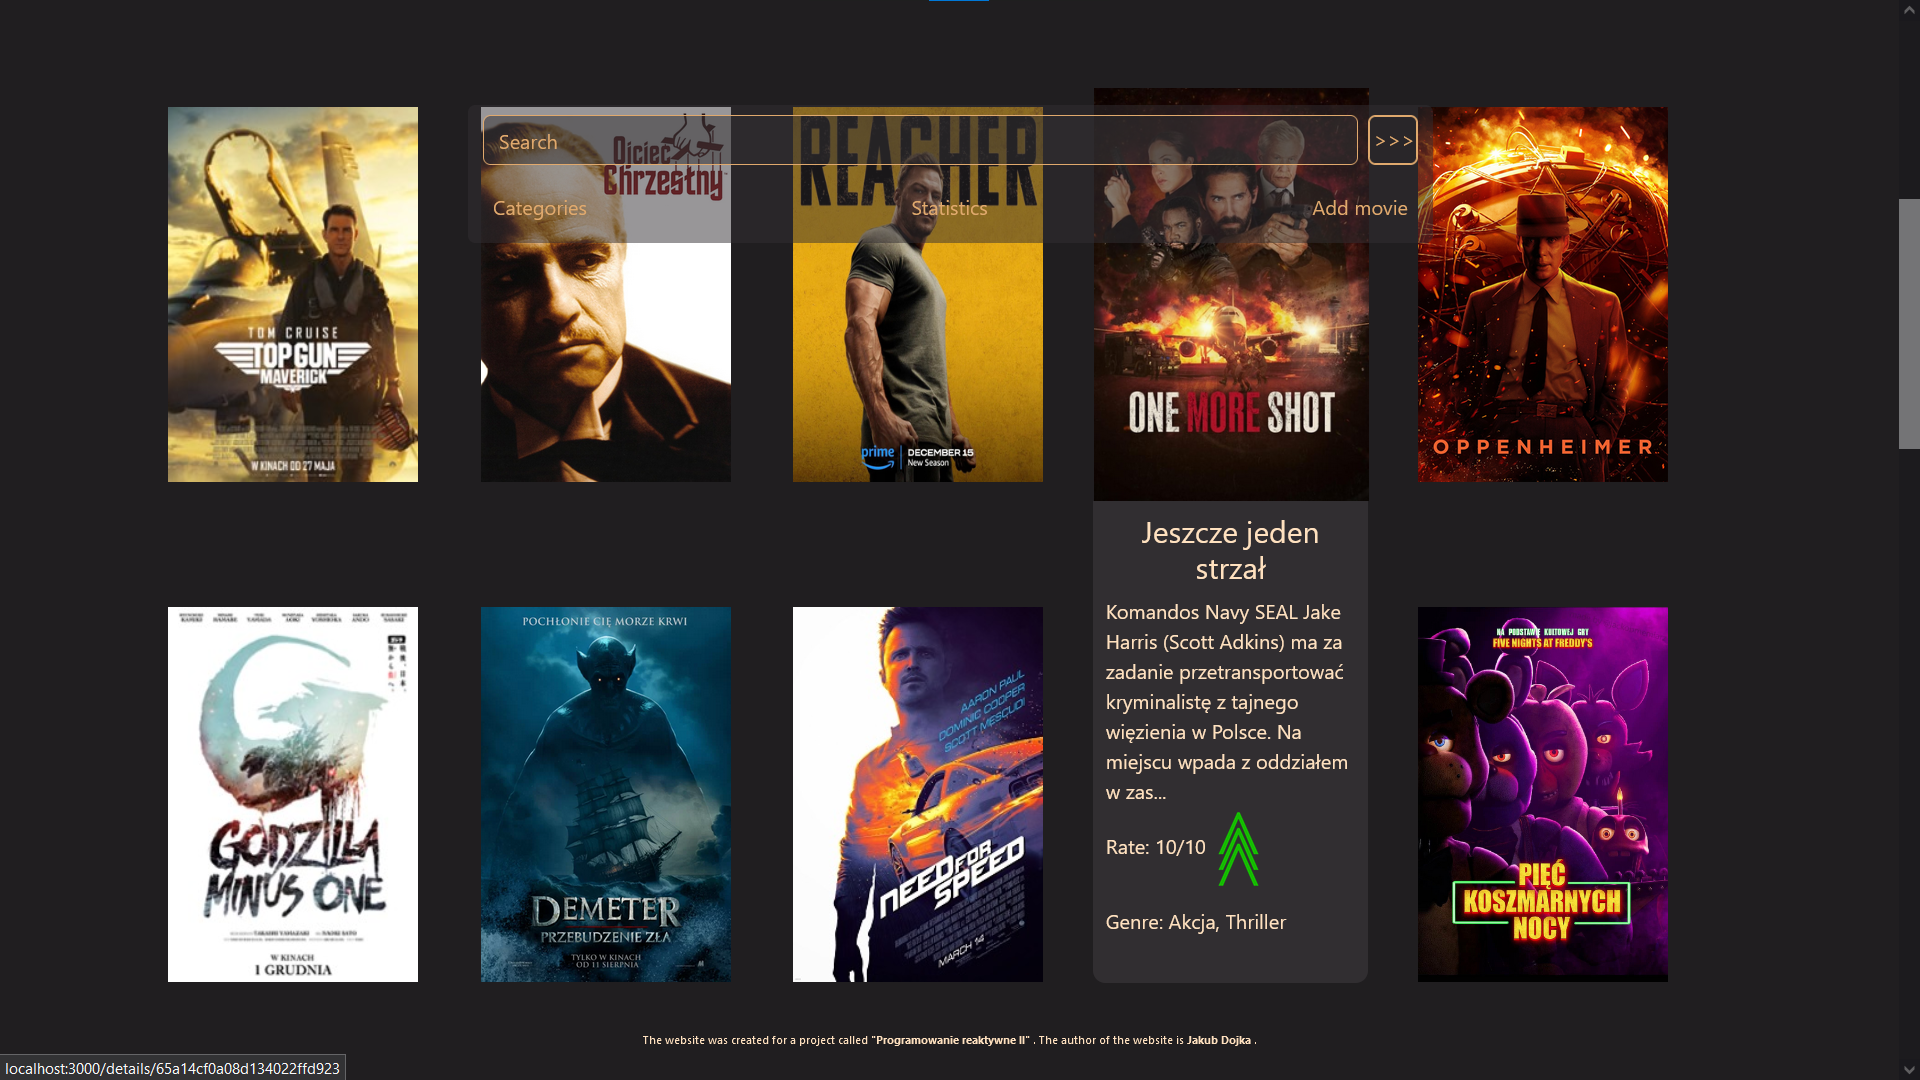
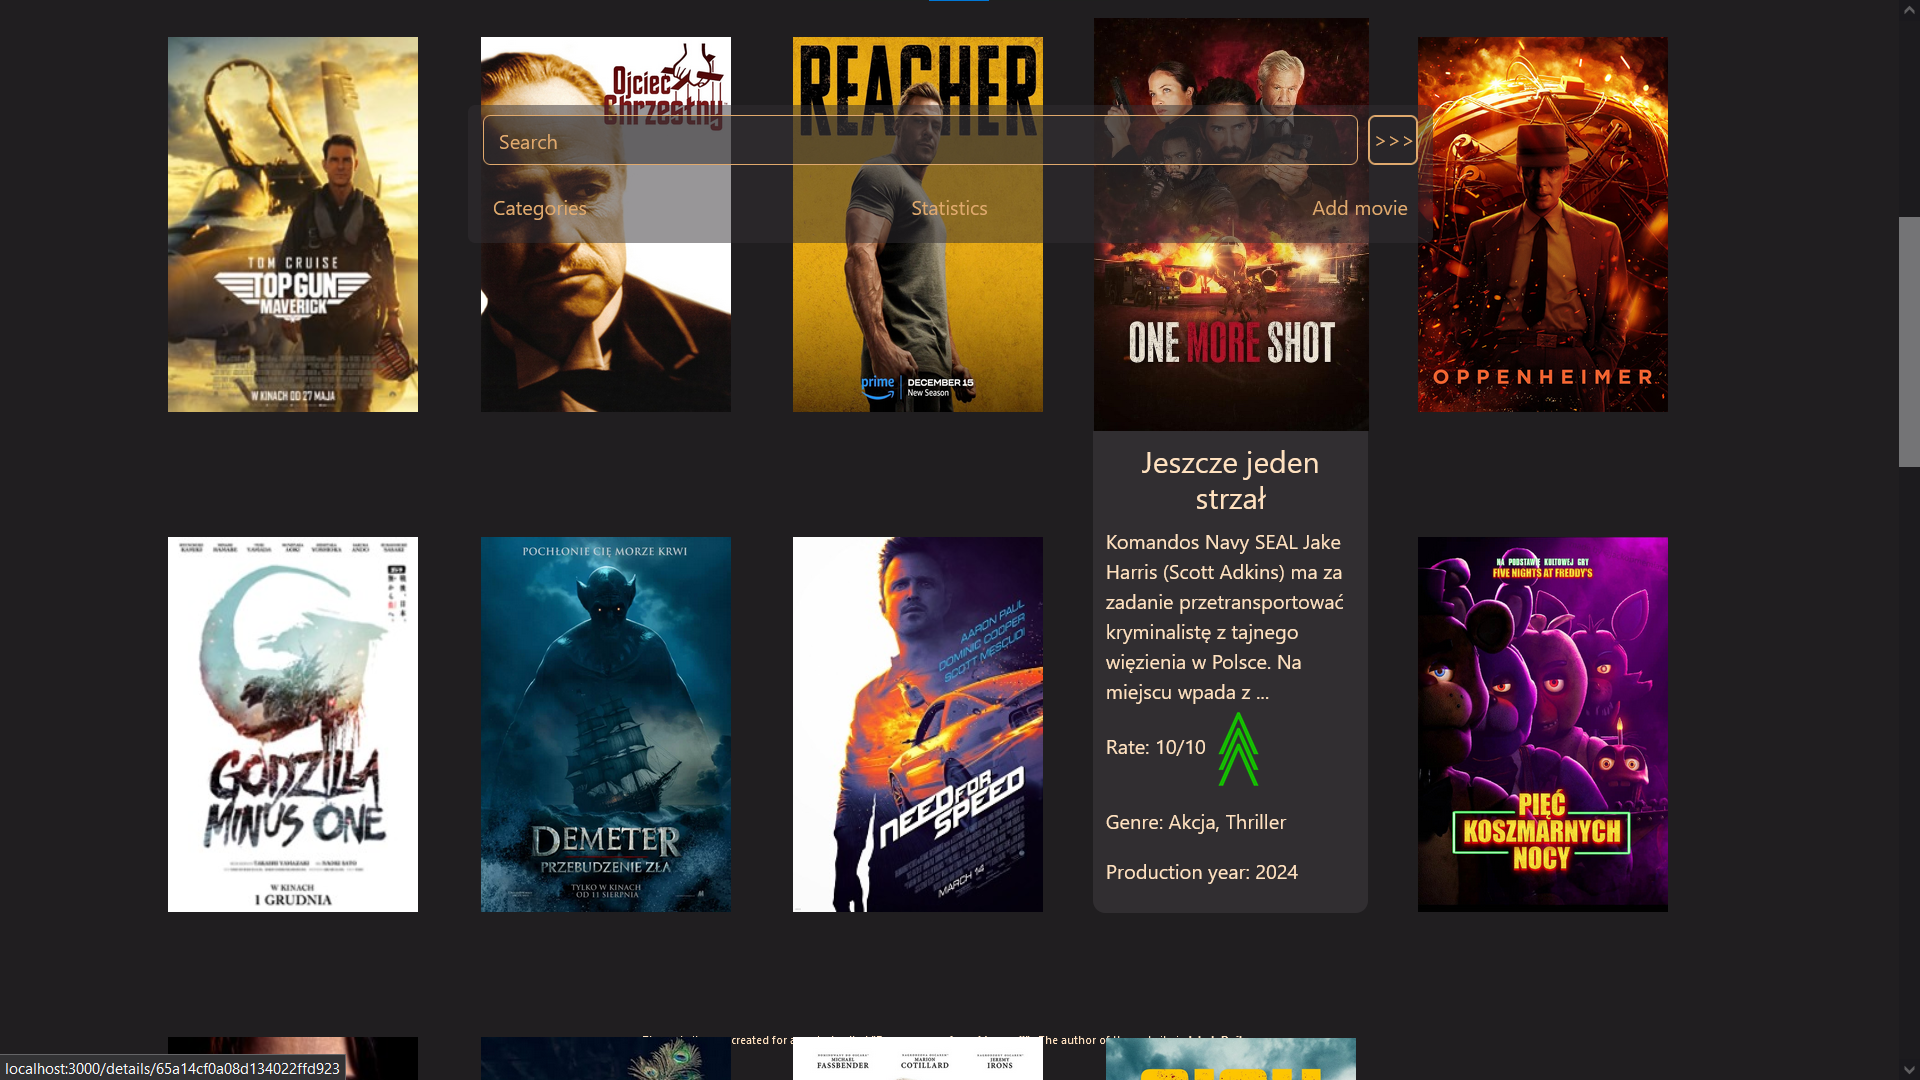
change photos, add footnote

diff --git a/src/components/pages/statistics/Statistics.jsx b/src/components/pages/statistics/Statistics.jsx
@@ -10,6 +10,7 @@ import axios from 'axios';
 import toast from 'react-hot-toast';
 import ChartComponent from "./ChartComponent";
 import {Link} from "react-router-dom";
+import Footnote from "../../elements/footnote/Footnote";
 
 const Statistics = () => {
     const props = useSpring({opacity: 1, from: {opacity: 0}});
@@ -54,16 +55,16 @@ const Statistics = () => {
                     <div className={styles.titleContainer}>
                         <HorizontalGap gap={'Top most rated videos (sorted)'}/>
                         <div className={styles.fullSize}>
-                        <div type="1" className={styles.orderedList}>
-                            {movies.map((movie, index) => (
-                                <Link className={styles.listElements} key={movie.id} to={`/details/${movie.id}`}>
+                            <div type="1" className={styles.orderedList}>
+                                {movies.map((movie, index) => (
+                                    <Link className={styles.listElements} key={movie.id} to={`/details/${movie.id}`}>
                                     <span
                                         className={`${styles.listElementOne} ${styles.background}`}>{index + 1}. {movie.title}</span>
-                                    <span
-                                        className={`${styles.listElementTwo} ${styles.background}`}>{movie.rate}/10</span>
-                                </Link>
-                            ))}
-                        </div>
+                                        <span
+                                            className={`${styles.listElementTwo} ${styles.background}`}>{movie.rate}/10</span>
+                                    </Link>
+                                ))}
+                            </div>
                         </div>
                     </div>
                     <div className={styles.titleContainer}>
@@ -72,6 +73,9 @@ const Statistics = () => {
                             <ChartComponent last7DaysData={last7DaysData}/>
                         </div>
                     </div>
+                </div>
+                <div className={styles.detailsFootnote}>
+                    <Footnote/>
                 </div>
             </div>
         </animated.div>

diff --git a/src/components/pages/details/Details.jsx b/src/components/pages/details/Details.jsx
@@ -11,6 +11,7 @@ import LoggedUser from "../../elements/loggedUser/LoggedUser";
 import SignInButton from "../../elements/signinButton/SignInButton";
 import { useAuth } from "../../utils/AuthContext";
 import { useNavigate } from "react-router-dom";
+import Footnote from "../../elements/footnote/Footnote";
 
 const Details = () => {
     const props = useSpring({opacity: 1, from: {opacity: 0}});
@@ -101,11 +102,13 @@ const Details = () => {
                         <div className={`d-flex align-items-center flex-row mb-3`}>
                             <div>
                                 <p className={styles.marginThem}>Rate: {clampedRate || 0}/10</p>
-                                <p className={styles.marginThem}>Production year: {movie.productionYear !== 0 ? movie.productionYear : 'Unknown'}</p>
+                                <p className={styles.marginThem}>Production
+                                    year: {movie.productionYear !== 0 ? movie.productionYear : 'Unknown'}</p>
                                 <p className={styles.marginThem}>Genre: {movie.genre}</p>
                             </div>
                             <div className={styles.marginThat}>
-                                {ratingImage && <img className={styles.ratingImage} src={ratingImage} alt={`rating ${movie.rate}`}/>}
+                                {ratingImage && <img className={styles.ratingImage} src={ratingImage}
+                                                     alt={`rating ${movie.rate}`}/>}
                             </div>
                         </div>
 
@@ -128,6 +131,9 @@ const Details = () => {
                             </button>
                         )}
                     </div>
+                </div>
+                <div className={styles.detailsFootnote}>
+                    <Footnote/>
                 </div>
             </div>
         </animated.div>

diff --git a/src/components/pages/details/Details.module.css b/src/components/pages/details/Details.module.css
@@ -84,3 +84,7 @@
 .marginThem {
     margin-bottom: -0px;
 }
+
+.detailsFootnote {
+    margin-top: 50px;
+}

diff --git a/src/components/pages/statistics/Statistics.module.css b/src/components/pages/statistics/Statistics.module.css
@@ -82,3 +82,7 @@
 
     /*background-color: green;*/
 }
+
+.detailsFootnote {
+    margin-top: 50px;
+}
